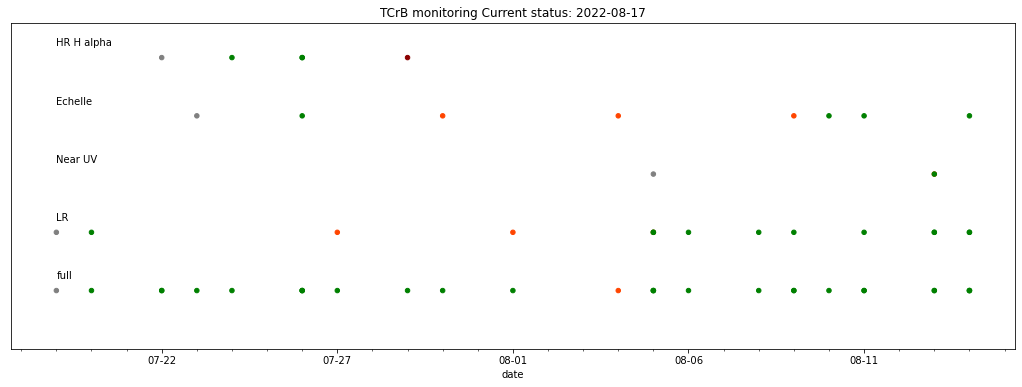
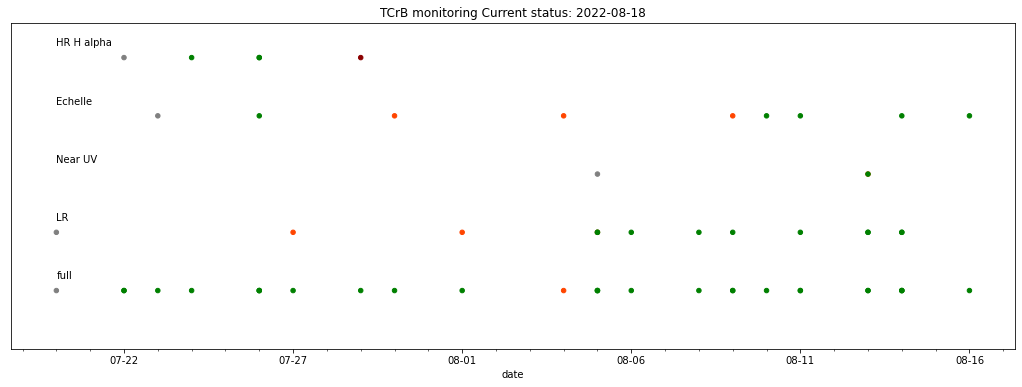
2021-08-18
add gscv names

diff --git a/tcrb.html b/tcrb.html
@@ -79,9 +79,9 @@
     <div class="card">
       <div class="card-body">
 
-        <p class="card-text">Number of spectra:   661</p>
+        <p class="card-text">Number of spectra:   662</p>
 <p class="card-text">First spectrum:   2012-04-01</p>
-<p class="card-text">Last spectrum:   2022-08-14</p>
+<p class="card-text">Last spectrum:   2022-08-16</p>
 <br><br>
 <p class="card-text" style="margin-bottom:0.055cm;"><i>send spectra to francoismathieu.teyssier [at] gmail.com & arasdatabase [at] gmail.com</i></p>
       </div>
@@ -98,7 +98,7 @@
 </div>
 <br>
 
-<a href="archives/tcrb.zip" class="btn btn-secondary">Download all spectra as *.zip file (44.0 MB)</a>
+<a href="archives/tcrb.zip" class="btn btn-secondary">Download all spectra as *.zip file (44.5 MB)</a>
 <table border="0" class="dataframe display" id="table_id">
   <thead>
     <tr style="text-align: right;">
@@ -10031,6 +10031,21 @@
       <td><svg xmlns="http://www.w3.org/2000/svg" width="5" height="16" fill="#151B8D" class="bi bi-square-fill" viewBox="1 0 5 16"><path d="M0 2a2 2 0 0 1 2-2h12a2 2 0 0 1 2 2v12a2 2 0 0 1-2 2H2a2 2 0 0 1-2-2V2z"/></svg><svg xmlns="http://www.w3.org/2000/svg" width="5" height="16" fill="#4AA02C" class="bi bi-square-fill" viewBox="1 0 5 16"><path d="M0 2a2 2 0 0 1 2-2h12a2 2 0 0 1 2 2v12a2 2 0 0 1-2 2H2a2 2 0 0 1-2-2V2z"/></svg><svg xmlns="http://www.w3.org/2000/svg" width="5" height="16" fill="#EAC117" class="bi bi-square-fill" viewBox="1 0 5 16"><path d="M0 2a2 2 0 0 1 2-2h12a2 2 0 0 1 2 2v12a2 2 0 0 1-2 2H2a2 2 0 0 1-2-2V2z"/></svg><svg xmlns="http://www.w3.org/2000/svg" width="5" height="16" fill="#E42217" class="bi bi-square-fill" viewBox="1 0 5 16"><path d="M0 2a2 2 0 0 1 2-2h12a2 2 0 0 1 2 2v12a2 2 0 0 1-2 2H2a2 2 0 0 1-2-2V2z"/></svg></td>
       <td><a href="spectra/asdb_tcrb_20220814_914.fit" download target="_blank"><svg width="1em" height="1em" viewBox="0 0 16 16" class="bi bi-download" fill="currentColor" xmlns="http://www.w3.org/2000/svg"><path fill-rule="evenodd" d="M.5 8a.5.5 0 0 1 .5.5V12a1 1 0 0 0 1 1h12a1 1 0 0 0 1-1V8.5a.5.5 0 0 1 1 0V12a2 2 0 0 1-2 2H2a2 2 0 0 1-2-2V8.5A.5.5 0 0 1 .5 8z"/><path fill-rule="evenodd" d="M5 7.5a.5.5 0 0 1 .707 0L8 9.793 10.293 7.5a.5.5 0 1 1 .707.707l-2.646 2.647a.5.5 0 0 1-.708 0L5 8.207A.5.5 0 0 1 5 7.5z"/><path fill-rule="evenodd" d="M8 1a.5.5 0 0 1 .5.5v8a.5.5 0 0 1-1 0v-8A.5.5 0 0 1 8 1z"/></svg></a></td>
       <td><a href="figures/asdb_tcrb_20220814_914.png" target="_blank"><svg width="1em" height="1em" viewBox="0 0 16 16" class="bi bi-eye" fill="currentColor" xmlns="http://www.w3.org/2000/svg"><path fill-rule="evenodd" d="M16 8s-3-5.5-8-5.5S0 8 0 8s3 5.5 8 5.5S16 8 16 8zM1.173 8a13.134 13.134 0 0 0 1.66 2.043C4.12 11.332 5.88 12.5 8 12.5c2.12 0 3.879-1.168 5.168-2.457A13.134 13.134 0 0 0 14.828 8a13.133 13.133 0 0 0-1.66-2.043C11.879 4.668 10.119 3.5 8 3.5c-2.12 0-3.879 1.168-5.168 2.457A13.133 13.133 0 0 0 1.172 8z"/><path fill-rule="evenodd" d="M8 5.5a2.5 2.5 0 1 0 0 5 2.5 2.5 0 0 0 0-5zM4.5 8a3.5 3.5 0 1 1 7 0 3.5 3.5 0 0 1-7 0z"/></svg></a></td>
+      <td></td>
+    </tr>
+    <tr>
+      <td>2022-08-16</td>
+      <td>0:48</td>
+      <td>59807.867</td>
+      <td>JGF</td>
+      <td>SMM-SP</td>
+      <td>9000</td>
+      <td><svg xmlns="http://www.w3.org/2000/svg" width="5" height="16" fill="#007bff" class="bi bi-square-fill" viewBox="1 0 5 16"><path d="M0 2a2 2 0 0 1 2-2h12a2 2 0 0 1 2 2v12a2 2 0 0 1-2 2H2a2 2 0 0 1-2-2V2z"/></svg><svg xmlns="http://www.w3.org/2000/svg" width="5" height="16" fill="#007bff" class="bi bi-square-fill" viewBox="1 0 5 16"><path d="M0 2a2 2 0 0 1 2-2h12a2 2 0 0 1 2 2v12a2 2 0 0 1-2 2H2a2 2 0 0 1-2-2V2z"/></svg><svg xmlns="http://www.w3.org/2000/svg" width="5" height="16" fill="#007bff" class="bi bi-square-fill" viewBox="1 0 5 16"><path d="M0 2a2 2 0 0 1 2-2h12a2 2 0 0 1 2 2v12a2 2 0 0 1-2 2H2a2 2 0 0 1-2-2V2z"/></svg><svg xmlns="http://www.w3.org/2000/svg" width="5" height="16" fill="#007bff" class="bi bi-square-fill" viewBox="1 0 5 16"><path d="M0 2a2 2 0 0 1 2-2h12a2 2 0 0 1 2 2v12a2 2 0 0 1-2 2H2a2 2 0 0 1-2-2V2z"/></svg><svg xmlns="http://www.w3.org/2000/svg" width="5" height="16" fill="#007bff" class="bi bi-square-fill" viewBox="1 0 5 16"><path d="M0 2a2 2 0 0 1 2-2h12a2 2 0 0 1 2 2v12a2 2 0 0 1-2 2H2a2 2 0 0 1-2-2V2z"/></svg></td>
+      <td>3747</td>
+      <td>9403</td>
+      <td><svg xmlns="http://www.w3.org/2000/svg" width="5" height="16" fill="#151B8D" class="bi bi-square-fill" viewBox="1 0 5 16"><path d="M0 2a2 2 0 0 1 2-2h12a2 2 0 0 1 2 2v12a2 2 0 0 1-2 2H2a2 2 0 0 1-2-2V2z"/></svg><svg xmlns="http://www.w3.org/2000/svg" width="5" height="16" fill="#4AA02C" class="bi bi-square-fill" viewBox="1 0 5 16"><path d="M0 2a2 2 0 0 1 2-2h12a2 2 0 0 1 2 2v12a2 2 0 0 1-2 2H2a2 2 0 0 1-2-2V2z"/></svg><svg xmlns="http://www.w3.org/2000/svg" width="5" height="16" fill="#EAC117" class="bi bi-square-fill" viewBox="1 0 5 16"><path d="M0 2a2 2 0 0 1 2-2h12a2 2 0 0 1 2 2v12a2 2 0 0 1-2 2H2a2 2 0 0 1-2-2V2z"/></svg><svg xmlns="http://www.w3.org/2000/svg" width="5" height="16" fill="#E42217" class="bi bi-square-fill" viewBox="1 0 5 16"><path d="M0 2a2 2 0 0 1 2-2h12a2 2 0 0 1 2 2v12a2 2 0 0 1-2 2H2a2 2 0 0 1-2-2V2z"/></svg><svg xmlns="http://www.w3.org/2000/svg" width="5" height="16" fill="#8C001A" class="bi bi-square-fill" viewBox="1 0 5 16"><path d="M0 2a2 2 0 0 1 2-2h12a2 2 0 0 1 2 2v12a2 2 0 0 1-2 2H2a2 2 0 0 1-2-2V2z"/></svg></td>
+      <td><a href="spectra/asdb_tcrb_20220816_867.fit" download target="_blank"><svg width="1em" height="1em" viewBox="0 0 16 16" class="bi bi-download" fill="currentColor" xmlns="http://www.w3.org/2000/svg"><path fill-rule="evenodd" d="M.5 8a.5.5 0 0 1 .5.5V12a1 1 0 0 0 1 1h12a1 1 0 0 0 1-1V8.5a.5.5 0 0 1 1 0V12a2 2 0 0 1-2 2H2a2 2 0 0 1-2-2V8.5A.5.5 0 0 1 .5 8z"/><path fill-rule="evenodd" d="M5 7.5a.5.5 0 0 1 .707 0L8 9.793 10.293 7.5a.5.5 0 1 1 .707.707l-2.646 2.647a.5.5 0 0 1-.708 0L5 8.207A.5.5 0 0 1 5 7.5z"/><path fill-rule="evenodd" d="M8 1a.5.5 0 0 1 .5.5v8a.5.5 0 0 1-1 0v-8A.5.5 0 0 1 8 1z"/></svg></a></td>
+      <td><a href="figures/asdb_tcrb_20220816_867.png" target="_blank"><svg width="1em" height="1em" viewBox="0 0 16 16" class="bi bi-eye" fill="currentColor" xmlns="http://www.w3.org/2000/svg"><path fill-rule="evenodd" d="M16 8s-3-5.5-8-5.5S0 8 0 8s3 5.5 8 5.5S16 8 16 8zM1.173 8a13.134 13.134 0 0 0 1.66 2.043C4.12 11.332 5.88 12.5 8 12.5c2.12 0 3.879-1.168 5.168-2.457A13.134 13.134 0 0 0 14.828 8a13.133 13.133 0 0 0-1.66-2.043C11.879 4.668 10.119 3.5 8 3.5c-2.12 0-3.879 1.168-5.168 2.457A13.133 13.133 0 0 0 1.172 8z"/><path fill-rule="evenodd" d="M8 5.5a2.5 2.5 0 1 0 0 5 2.5 2.5 0 0 0 0-5zM4.5 8a3.5 3.5 0 1 1 7 0 3.5 3.5 0 0 1-7 0z"/></svg></a></td>
       <td></td>
     </tr>
   </tbody>

diff --git a/v919sgr.html b/v919sgr.html
@@ -79,7 +79,7 @@
     <div class="card">
       <div class="card-body">
 
-        <p class="card-text">Number of spectra:   25</p>
+        <p class="card-text">Number of spectra:   26</p>
 <p class="card-text">First spectrum:   2015-08-28</p>
 <p class="card-text">Last spectrum:   2022-08-15</p>
 <br><br>
@@ -483,6 +483,21 @@
       <td><svg xmlns="http://www.w3.org/2000/svg" width="5" height="16" fill="#151B8D" class="bi bi-square-fill" viewBox="1 0 5 16"><path d="M0 2a2 2 0 0 1 2-2h12a2 2 0 0 1 2 2v12a2 2 0 0 1-2 2H2a2 2 0 0 1-2-2V2z"/></svg><svg xmlns="http://www.w3.org/2000/svg" width="5" height="16" fill="#4AA02C" class="bi bi-square-fill" viewBox="1 0 5 16"><path d="M0 2a2 2 0 0 1 2-2h12a2 2 0 0 1 2 2v12a2 2 0 0 1-2 2H2a2 2 0 0 1-2-2V2z"/></svg><svg xmlns="http://www.w3.org/2000/svg" width="5" height="16" fill="#EAC117" class="bi bi-square-fill" viewBox="1 0 5 16"><path d="M0 2a2 2 0 0 1 2-2h12a2 2 0 0 1 2 2v12a2 2 0 0 1-2 2H2a2 2 0 0 1-2-2V2z"/></svg><svg xmlns="http://www.w3.org/2000/svg" width="5" height="16" fill="#E42217" class="bi bi-square-fill" viewBox="1 0 5 16"><path d="M0 2a2 2 0 0 1 2-2h12a2 2 0 0 1 2 2v12a2 2 0 0 1-2 2H2a2 2 0 0 1-2-2V2z"/></svg><svg xmlns="http://www.w3.org/2000/svg" width="5" height="16" fill="#8C001A" class="bi bi-square-fill" viewBox="1 0 5 16"><path d="M0 2a2 2 0 0 1 2-2h12a2 2 0 0 1 2 2v12a2 2 0 0 1-2 2H2a2 2 0 0 1-2-2V2z"/></svg></td>
       <td><a href="spectra/asdb_v919sgr_20220815_885.fit" download target="_blank"><svg width="1em" height="1em" viewBox="0 0 16 16" class="bi bi-download" fill="currentColor" xmlns="http://www.w3.org/2000/svg"><path fill-rule="evenodd" d="M.5 8a.5.5 0 0 1 .5.5V12a1 1 0 0 0 1 1h12a1 1 0 0 0 1-1V8.5a.5.5 0 0 1 1 0V12a2 2 0 0 1-2 2H2a2 2 0 0 1-2-2V8.5A.5.5 0 0 1 .5 8z"/><path fill-rule="evenodd" d="M5 7.5a.5.5 0 0 1 .707 0L8 9.793 10.293 7.5a.5.5 0 1 1 .707.707l-2.646 2.647a.5.5 0 0 1-.708 0L5 8.207A.5.5 0 0 1 5 7.5z"/><path fill-rule="evenodd" d="M8 1a.5.5 0 0 1 .5.5v8a.5.5 0 0 1-1 0v-8A.5.5 0 0 1 8 1z"/></svg></a></td>
       <td><a href="figures/asdb_v919sgr_20220815_885.png" target="_blank"><svg width="1em" height="1em" viewBox="0 0 16 16" class="bi bi-eye" fill="currentColor" xmlns="http://www.w3.org/2000/svg"><path fill-rule="evenodd" d="M16 8s-3-5.5-8-5.5S0 8 0 8s3 5.5 8 5.5S16 8 16 8zM1.173 8a13.134 13.134 0 0 0 1.66 2.043C4.12 11.332 5.88 12.5 8 12.5c2.12 0 3.879-1.168 5.168-2.457A13.134 13.134 0 0 0 14.828 8a13.133 13.133 0 0 0-1.66-2.043C11.879 4.668 10.119 3.5 8 3.5c-2.12 0-3.879 1.168-5.168 2.457A13.133 13.133 0 0 0 1.172 8z"/><path fill-rule="evenodd" d="M8 5.5a2.5 2.5 0 1 0 0 5 2.5 2.5 0 0 0 0-5zM4.5 8a3.5 3.5 0 1 1 7 0 3.5 3.5 0 0 1-7 0z"/></svg></a></td>
+      <td></td>
+    </tr>
+    <tr>
+      <td>2022-08-14</td>
+      <td>1:35</td>
+      <td>59805.900</td>
+      <td>JGF</td>
+      <td>PIE-SP</td>
+      <td>9000</td>
+      <td><svg xmlns="http://www.w3.org/2000/svg" width="5" height="16" fill="#007bff" class="bi bi-square-fill" viewBox="1 0 5 16"><path d="M0 2a2 2 0 0 1 2-2h12a2 2 0 0 1 2 2v12a2 2 0 0 1-2 2H2a2 2 0 0 1-2-2V2z"/></svg><svg xmlns="http://www.w3.org/2000/svg" width="5" height="16" fill="#007bff" class="bi bi-square-fill" viewBox="1 0 5 16"><path d="M0 2a2 2 0 0 1 2-2h12a2 2 0 0 1 2 2v12a2 2 0 0 1-2 2H2a2 2 0 0 1-2-2V2z"/></svg><svg xmlns="http://www.w3.org/2000/svg" width="5" height="16" fill="#007bff" class="bi bi-square-fill" viewBox="1 0 5 16"><path d="M0 2a2 2 0 0 1 2-2h12a2 2 0 0 1 2 2v12a2 2 0 0 1-2 2H2a2 2 0 0 1-2-2V2z"/></svg><svg xmlns="http://www.w3.org/2000/svg" width="5" height="16" fill="#007bff" class="bi bi-square-fill" viewBox="1 0 5 16"><path d="M0 2a2 2 0 0 1 2-2h12a2 2 0 0 1 2 2v12a2 2 0 0 1-2 2H2a2 2 0 0 1-2-2V2z"/></svg><svg xmlns="http://www.w3.org/2000/svg" width="5" height="16" fill="#007bff" class="bi bi-square-fill" viewBox="1 0 5 16"><path d="M0 2a2 2 0 0 1 2-2h12a2 2 0 0 1 2 2v12a2 2 0 0 1-2 2H2a2 2 0 0 1-2-2V2z"/></svg></td>
+      <td>3841</td>
+      <td>9619</td>
+      <td><svg xmlns="http://www.w3.org/2000/svg" width="5" height="16" fill="#151B8D" class="bi bi-square-fill" viewBox="1 0 5 16"><path d="M0 2a2 2 0 0 1 2-2h12a2 2 0 0 1 2 2v12a2 2 0 0 1-2 2H2a2 2 0 0 1-2-2V2z"/></svg><svg xmlns="http://www.w3.org/2000/svg" width="5" height="16" fill="#4AA02C" class="bi bi-square-fill" viewBox="1 0 5 16"><path d="M0 2a2 2 0 0 1 2-2h12a2 2 0 0 1 2 2v12a2 2 0 0 1-2 2H2a2 2 0 0 1-2-2V2z"/></svg><svg xmlns="http://www.w3.org/2000/svg" width="5" height="16" fill="#EAC117" class="bi bi-square-fill" viewBox="1 0 5 16"><path d="M0 2a2 2 0 0 1 2-2h12a2 2 0 0 1 2 2v12a2 2 0 0 1-2 2H2a2 2 0 0 1-2-2V2z"/></svg><svg xmlns="http://www.w3.org/2000/svg" width="5" height="16" fill="#E42217" class="bi bi-square-fill" viewBox="1 0 5 16"><path d="M0 2a2 2 0 0 1 2-2h12a2 2 0 0 1 2 2v12a2 2 0 0 1-2 2H2a2 2 0 0 1-2-2V2z"/></svg><svg xmlns="http://www.w3.org/2000/svg" width="5" height="16" fill="#8C001A" class="bi bi-square-fill" viewBox="1 0 5 16"><path d="M0 2a2 2 0 0 1 2-2h12a2 2 0 0 1 2 2v12a2 2 0 0 1-2 2H2a2 2 0 0 1-2-2V2z"/></svg></td>
+      <td><a href="spectra/asdb_v919sgr_20220814_899.fit" download target="_blank"><svg width="1em" height="1em" viewBox="0 0 16 16" class="bi bi-download" fill="currentColor" xmlns="http://www.w3.org/2000/svg"><path fill-rule="evenodd" d="M.5 8a.5.5 0 0 1 .5.5V12a1 1 0 0 0 1 1h12a1 1 0 0 0 1-1V8.5a.5.5 0 0 1 1 0V12a2 2 0 0 1-2 2H2a2 2 0 0 1-2-2V8.5A.5.5 0 0 1 .5 8z"/><path fill-rule="evenodd" d="M5 7.5a.5.5 0 0 1 .707 0L8 9.793 10.293 7.5a.5.5 0 1 1 .707.707l-2.646 2.647a.5.5 0 0 1-.708 0L5 8.207A.5.5 0 0 1 5 7.5z"/><path fill-rule="evenodd" d="M8 1a.5.5 0 0 1 .5.5v8a.5.5 0 0 1-1 0v-8A.5.5 0 0 1 8 1z"/></svg></a></td>
+      <td><a href="figures/asdb_v919sgr_20220814_899.png" target="_blank"><svg width="1em" height="1em" viewBox="0 0 16 16" class="bi bi-eye" fill="currentColor" xmlns="http://www.w3.org/2000/svg"><path fill-rule="evenodd" d="M16 8s-3-5.5-8-5.5S0 8 0 8s3 5.5 8 5.5S16 8 16 8zM1.173 8a13.134 13.134 0 0 0 1.66 2.043C4.12 11.332 5.88 12.5 8 12.5c2.12 0 3.879-1.168 5.168-2.457A13.134 13.134 0 0 0 14.828 8a13.133 13.133 0 0 0-1.66-2.043C11.879 4.668 10.119 3.5 8 3.5c-2.12 0-3.879 1.168-5.168 2.457A13.133 13.133 0 0 0 1.172 8z"/><path fill-rule="evenodd" d="M8 5.5a2.5 2.5 0 1 0 0 5 2.5 2.5 0 0 0 0-5zM4.5 8a3.5 3.5 0 1 1 7 0 3.5 3.5 0 0 1-7 0z"/></svg></a></td>
       <td></td>
     </tr>
   </tbody>

diff --git a/novavul2021.html b/novavul2021.html
@@ -55,7 +55,7 @@
     </div>
   </nav>
 
-<!-- Page Content --><div class="container">  <div class="row">    <div class="col-lg-12 text-center">      <h1 class="mt-5">ARAS Novae Program</h1><br>  <div class="row"><div class="col-sm-6">  <div class="card">    <div class="card-body">      <h5 class="card-title">Nova Vul 2021</h5>      <p class="card-text">GCVS Name: -</p><p class="card-text">Discovery Name: TCP TCP J20210770+2914093</p>      <p class="card-text">RA (2000): 20 21 07.7</p>      <p class="card-text">DEC (2000): +29 14 09.3</p>  </div>  </div></div><div class="col-sm-6">
+<!-- Page Content --><div class="container">  <div class="row">    <div class="col-lg-12 text-center">      <h1 class="mt-5">ARAS Novae Program</h1><br>  <div class="row"><div class="col-sm-6">  <div class="card">    <div class="card-body">      <h5 class="card-title">Nova Vul 2021</h5>      <p class="card-text">GCVS Name: V606 Vul</p><p class="card-text">Discovery Name: TCP TCP J20210770+2914093</p>      <p class="card-text">RA (2000): 20 21 07.7</p>      <p class="card-text">DEC (2000): +29 14 09.3</p>  </div>  </div></div><div class="col-sm-6">
     <div class="card">
       <div class="card-body">
 

diff --git a/novasco2021b.html b/novasco2021b.html
@@ -55,7 +55,7 @@
     </div>
   </nav>
 
-<!-- Page Content --><div class="container">  <div class="row">    <div class="col-lg-12 text-center">      <h1 class="mt-5">ARAS Novae Program</h1><br>  <div class="row"><div class="col-sm-6">  <div class="card">    <div class="card-body">      <h5 class="card-title">Nova Sco 2021b</h5>      <p class="card-text">GCVS Name: </p><p class="card-text">Discovery Name: ASASSN-21lk</p>      <p class="card-text">RA (2000): 17 39 44.7294</p>      <p class="card-text">DEC (2000): -36 16 40.193</p>  </div>  </div></div><div class="col-sm-6">
+<!-- Page Content --><div class="container">  <div class="row">    <div class="col-lg-12 text-center">      <h1 class="mt-5">ARAS Novae Program</h1><br>  <div class="row"><div class="col-sm-6">  <div class="card">    <div class="card-body">      <h5 class="card-title">Nova Sco 2021b</h5>      <p class="card-text">GCVS Name: V1711 Sco</p><p class="card-text">Discovery Name: ASASSN-21lk</p>      <p class="card-text">RA (2000): 17 39 44.7294</p>      <p class="card-text">DEC (2000): -36 16 40.193</p>  </div>  </div></div><div class="col-sm-6">
     <div class="card">
       <div class="card-body">
 

diff --git a/symbiotics.html b/symbiotics.html
@@ -74,7 +74,7 @@
  <style>table {text-align: center;}table thead th {text-align: center;}</style>
 <p class="card-text">Number of stars: 104
 </p><p class="card-text">Number of spectra: 7683
-</p><p class="card-text">Last update: 2022-08-18, 09:22</p>
+</p><p class="card-text">Last update: 2022-08-18, 16:18</p>
 <br><br>
 <a href="observers.html" class="btn btn-secondary">Observers</a>
         <a href="observatories.html" class="btn btn-secondary">Observatories</a>

diff --git a/novae.html b/novae.html
@@ -71,7 +71,7 @@
  <style>table {text-align: center;}table thead th {text-align: center;}</style>
 <p class="card-text">Number of stars: 61
 </p><p class="card-text">Number of spectra: 3904
-</p><p class="card-text">Last update: 2022-08-17, 07:08</p>
+</p><p class="card-text">Last update: 2022-08-18, 16:18</p>
 <br><br>
 <a href="observers.html" class="btn btn-secondary">Observers</a>
         <a href="observatories.html" class="btn btn-secondary">Observatories</a>
